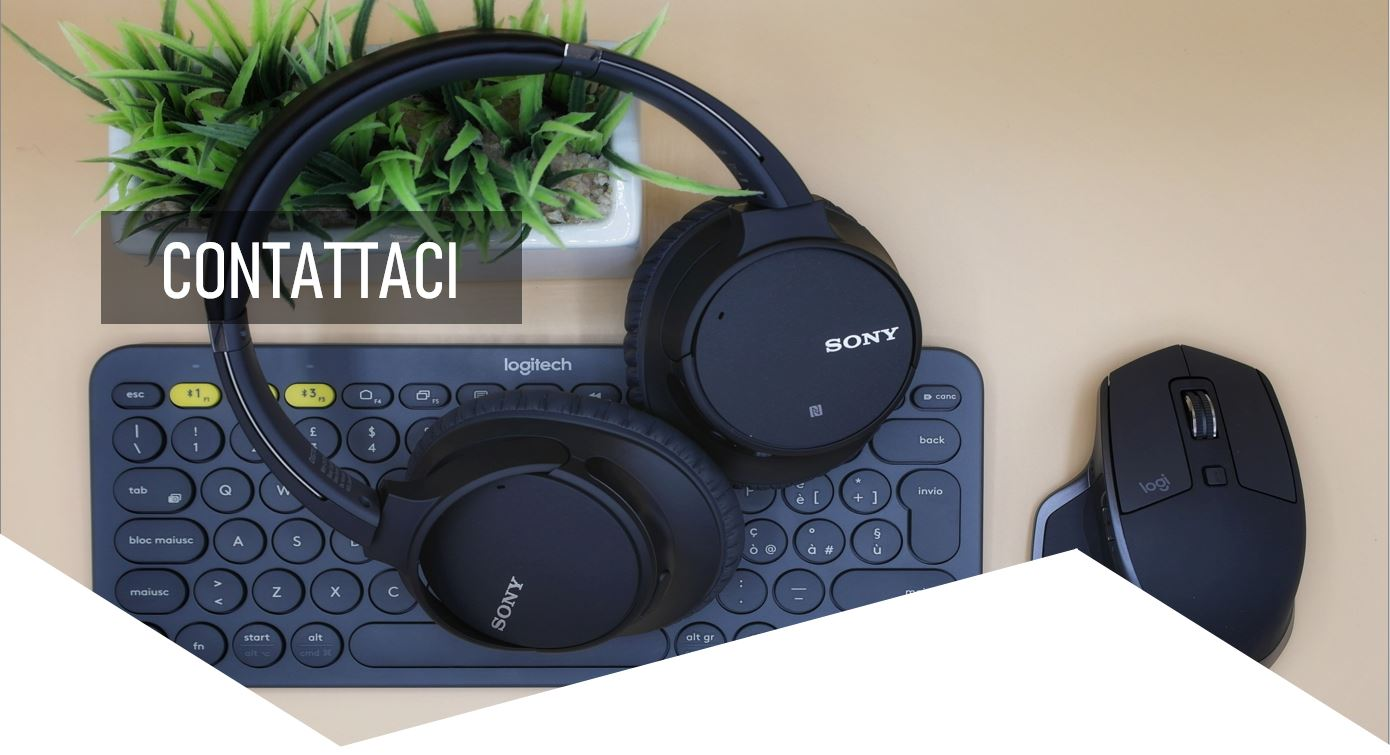
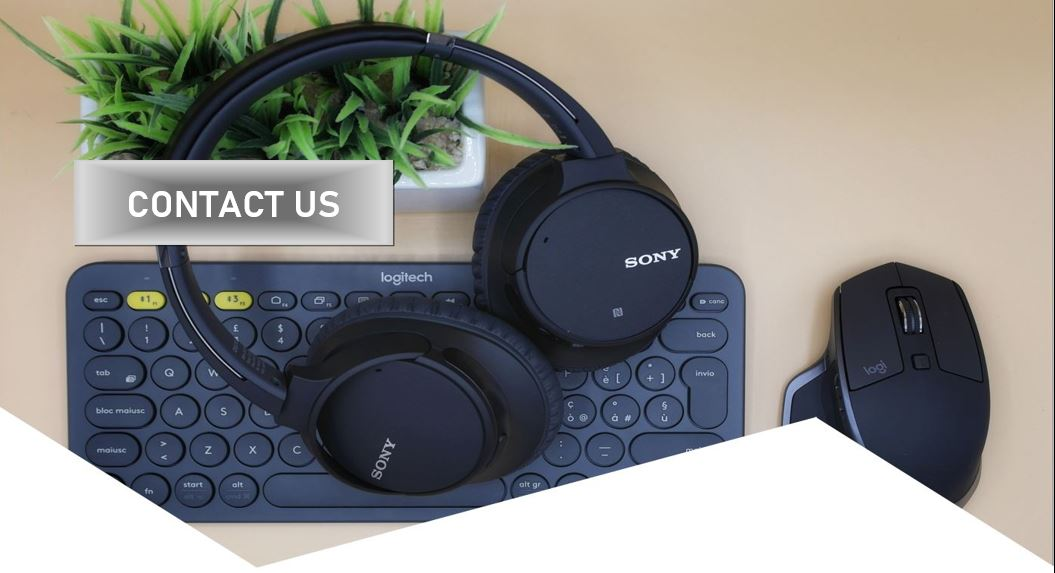
SITO UFFICIALMENTE FINITO

diff --git a/index.html b/index.html
@@ -11,18 +11,18 @@
     <body>
         <navbar id="navbar">
             <span id="navbar-title"><a href="index.html">Data EntryZ</a></span>
-            <a class="navbar-button" href="ComeFunziona.html">COME FUNZIONA</a>
-            <a class="navbar-button" href="lavora-con-noi.html">LAVORA CON NOI</a>
-            <a class="navbar-button" href="contattaci.html">CONTATTACI</a>
+            <a class="navbar-button" href="ComeFunziona.html">HOW DOES IT WORK?</a>
+            <a class="navbar-button" href="lavora-con-noi.html">WORK WITH US</a>
+            <a class="navbar-button" href="contattaci.html">CONTACT US</a>
         </navbar>
 
         <div class="flex-container">
             <div>
                 <p>
-                    DataEntryZ fondata nel 2022, utilizza tutti gli strumenti tecnologici necessari per offrire un servizio di inserimento dati alla massima qualità possibile.
+                    DataEntryZ founded in 2022, uses all the technological tools necessary to offer a data entry service at the highest possible quality.
                 </p>
-                <p>La nostra societa si impegna a garantire qualità, professionalità e precisione.</p>
-                <div class="container-button"><a href="javascript:void(0);">Prenota un progetto</a></div>
+                <p>Our company is committed to guaranteeing quality, professionalism and precision.</p>
+                <div><a class="container-button" href="https://forms.gle/NepX91Uy2oKfBoG5A">Book a project</a></div>
             </div>
             <img src="img/logo.png" alt="logo" id="logo">
         </div>
@@ -30,31 +30,31 @@
         <div class="flex-container bg-light-gray" id="second-section">
             <img src="img/graph.png" alt="grafico professionalita'" id="grafico" />
             <div>
-                <h3>Affida i tuoi dati a dei professionisti</h3>
+                <h3>Entrust your data to professionals</h3>
                 <p>
-                    I tuoi dati saranno tenuti al sicuro in dei server locali e l'intero lavoro sarà svolto in locale.<br />Al termine del lavoro i dati saranno definitivamente eliminati e il file verrà mantenuto per 7 giorni dal momento della consegna in caso di problemi.
+                    Your data will be kept safe on local servers and all work will be done locally.<br/>At the end of the work the data will be permanently deleted and the file will be kept for 7 days from the moment of delivery in case of problems.
                 </p>
             </div>
         </div>
 
         <div class="flex-container">
             <div>
-                <h3>Assistenza umana</h3>
+                <h3>Human assistance</h3>
                 <p>
-                    I nostri operatori saranno sempre pronti a risolvere qualsiasi dubbi o perplessità, e inoltre si impegnano a offirre un tempo di risposta tempestivo che si può estendere fino a un massimo di 24 ore a causa dell'elevato numero di richieste.
+                    Our operators will always be ready to resolve any doubts or concerns, and also undertake to offer a prompt response time that can be extended up to a maximum of 24 hours due to the high number of requests.
                 </p>
-                <div class="container-button"><a href="javascript:void(0);">Contatta l'assistenza</a></div>
+                <div><a class="container-button" href="contattaci.html">Contact support</a></div>
             </div>
             <img src="img/customer_care.jpg" alt="assistena clienti" id="customer-care" />
         </div>
 
-        <footer class="flex-container bg-dark-gray" id="footer">
+        <footer class="flex-box-secondpag bg-dark-gray" id="footer">
             <div>
                 <span>Copyright © 2022 DataEntryZ</span>
                 <div>
-                    <a href="javascript:void(0);"><img src="img/email.svg" alt="email" class="social-svg" /></a>
-                    <a href="javascript:void(0);"><img src="img/instagram.svg" alt="instagram" class="social-svg" /></a>
-                    <a href="javascript:void(0);"><img src="img/facebook.svg" alt="facebook" class="social-svg" /></a>
+                    <a href="mailto:Dataentryz@pm.me"><img src="img/email.svg" alt="email" class="social-svg" /></a>
+                    <a href="https://instagram.com/dataentryz?igshid=YmMyMTA2M2Y="><img src="img/instagram.svg" alt="instagram" class="social-svg" /></a>
+                    <a href="https://instagram.com/dataentryz?igshid=YmMyMTA2M2Y="><img src="img/facebook.svg" alt="facebook" class="social-svg" /></a>
                 </div>
             </div>
         </footer>

diff --git a/ComeFunziona.html b/ComeFunziona.html
@@ -10,31 +10,31 @@
     <body>
         <navbar id="navbar">
             <span id="navbar-title"><a href="index.html">Data EntryZ</a></span>
-            <a class="navbar-button" href="ComeFunziona.html">COME FUNZIONA</a>
-            <a class="navbar-button" href="lavora-con-noi.html">LAVORA CON NOI</a>
-            <a class="navbar-button" href="contattaci.html">CONTATTACI</a>
+            <a class="navbar-button" href="ComeFunziona.html">HOW DOES IT WORK?</a>
+            <a class="navbar-button" href="lavora-con-noi.html">WORK WITH US</a>
+            <a class="navbar-button" href="contattaci.html">CONTACT US</a>
         </navbar>
         <div class="flex-box-secondpag">
-            <div><h3>UNA SOLUZIONE INNOVATIVA</h3>
+            <div><h3>AN INNOVATIVE SOLUTION</h3>
                 <p>
-                    DataEntryZ fornisce una soluzione unica e innovativa, il cliente attraverso la compilazione di un form descrive il proprio progetto e le sue esigenze, il nostro team risponderà entro 24 ore dall'invio del form con un email che confermerà la presa in carico del lavoro
+                    DataEntryZ provides a unique and innovative solution, the customer by filling in a form describes his project and his needs, our team will respond within 24 hours of sending the form with an email that will confirm the taking charge of the work
                 </p>
             </div>
             </div>
         <div class="flex-box-secondpag" id="RigaIntermedia">
-            <div><h3>PERSONALIZZAZIONE ILLIMITATA</h3>
+            <div><h3>UNLIMITED CUSTOMIZATION</h3>
                 <p>
-                    DataEntryZ fornisce una soluzione unica e innovativa, il cliente attraverso la compilazione di un form descrive il proprio progetto e le sue esigenze, il nostro team risponderà entro 24 ore dall'invio del form con un email che confermerà la presa in carico del lavoro
+                    With DataentryZ you can explain your needs in the form and make all the requests you want, in the confirmation email you will also receive the answer to any requests ;)
                 </p>
             </div>
             </div>
         <div class="flex-box-secondpag" id="RigaFinale">
-            <div><h3>TEMPI FLESSIBILI</h3>
+            <div><h3>FLEXIBLE TIMES AND DELIVERY</h3>
                 <p>
-                    DataEntryZ fornisce una soluzione unica e innovativa, il cliente attraverso la compilazione di un form descrive il proprio progetto e le sue esigenze, il nostro team risponderà entro 24 ore dall'invio del form con un email che confermerà la presa in carico del lavoro
+                    When filling out the form you will need to specify a delivery date, our team will do everything possible to deliver the work on that date. To protect the work within our company we ask for the payment of 1-10% after the confirmation email (the exact amount will be specified in the confirmation email) of the fee according to the project. <br> the delivery of the work will take place via a password-protected cloud that will be provided to the customer at the time of final payment.
                 </p>
                 <p>
-                    <button>Compila il form</button>
+                    <a class="container-button" href="https://forms.gle/NepX91Uy2oKfBoG5A">Fill out the form</a>
                 </p>
                     </div>
             </div>
@@ -46,9 +46,9 @@
                 <div>
                     <span>Copyright © 2022 DataEntryZ</span>
                     <div>
-                        <a href="javascript:void(0);"><img src="img/email.svg" alt="email" class="social-svg" /></a>
-                        <a href="javascript:void(0);"><img src="img/instagram.svg" alt="instagram" class="social-svg" /></a>
-                        <a href="javascript:void(0);"><img src="img/facebook.svg" alt="facebook" class="social-svg" /></a>
+                        <a href="mailto:Dataentryz@pm.me"><img src="img/email.svg" alt="email" class="social-svg" /></a>
+                        <a href="https://instagram.com/dataentryz?igshid=YmMyMTA2M2Y="><img src="img/instagram.svg" alt="instagram" class="social-svg" /></a>
+                        <a href="https://instagram.com/dataentryz?igshid=YmMyMTA2M2Y="><img src="img/facebook.svg" alt="facebook" class="social-svg" /></a>
                     </div>
                 </div>
             </footer>

diff --git a/contattaci.html b/contattaci.html
@@ -9,28 +9,28 @@
     <body>
         <navbar id="navbar">
             <span id="navbar-title"><a href="index.html">Data EntryZ</a></span>
-            <a class="navbar-button" href="ComeFunziona.html">COME FUNZIONA</a>
-            <a class="navbar-button" href="lavora-con-noi.html">LAVORA CON NOI</a>
-            <a class="navbar-button" href="contattaci.html">CONTATTACI</a>
+            <a class="navbar-button" href="ComeFunziona.html">HOW DOES IT WORK?</a>
+            <a class="navbar-button" href="lavora-con-noi.html">WORK WITH US</a>
+            <a class="navbar-button" href="contattaci.html">CONTACT US</a>
         </navbar>
         <div><img src="img/Contattaci.jpg" id="sfondo"></div>
         </div>
         <div class="flex-box-secondpag">
             <div>
-                <h3>Richiedi una consulenza per la tua azienda</h3>
+                <h3>Request a consultation for your company</h3>
                     <p class="paragrafo">
-                        Vuoi ricevere una consulenza personalizzata gratuita per la tua azienda o scoprire i servizi e le soluzioni di DataEntryZ?<br> Mettiti in contatto con noi.
+                        Do you want to receive free personalized advice for your company or discover DataEntryZ services and solutions?<br> Get in touch with us.
                     </p>
-                    <div class="navbar-button"><a href="javascript:void(0);">Richiedi una consulenza</a></div>
+            <div><a class="navbar-button" href="mailto:Dataentryz@pm.me">Request a consultation</a></div>
             </div>
         </div>
         <div class="flex-box-secondpag">
         <div>
-             <h3>Contatta la nostra assistenza</h3>
+             <h3>Contact our support</h3>
             <p class="paragrafo">
-            Non hai trovato quello che cercavi?<br> Mettiti in contatto con uno dei nostri operatori. Il tempo di risposta può variare fino a un massimo di 24 ore in base alle richieste. <br> Scrivi all'indirizzo email: prova@gmail.com o tramite  chat telegram.
+                You did not find what you were looking for?<br>Get in touch with one of our operators. Response time may vary up to a maximum of 24 hours based on requests. <br> Write to the email address: Dataentryz@pm.me or by telegram chat.
              </p>
-        <div class="navbar-button"><a href="javascript:void(0);">Chat Telegram</a></div>
+        <div><a class="navbar-button" href="https://t.me/S4N7010">Chat Telegram</a></div>
         </div>
         </div>
         <div class="flex-box-secondpag" id="ImgCentrata">
@@ -41,9 +41,9 @@
             <div>
                 <span>Copyright © 2022 DataEntryZ</span>
                 <div>
-                    <a href="javascript:void(0);"><img src="img/email.svg" alt="email" class="social-svg" /></a>
-                    <a href="javascript:void(0);"><img src="img/instagram.svg" alt="instagram" class="social-svg" /></a>
-                    <a href="javascript:void(0);"><img src="img/facebook.svg" alt="facebook" class="social-svg" /></a>
+                    <a href="mailto:Dataentryz@pm.me"><img src="img/email.svg" alt="email" class="social-svg" /></a>
+                    <a href="https://instagram.com/dataentryz?igshid=YmMyMTA2M2Y="><img src="img/instagram.svg" alt="instagram" class="social-svg" /></a>
+                    <a href="https://instagram.com/dataentryz?igshid=YmMyMTA2M2Y="><img src="img/facebook.svg" alt="facebook" class="social-svg" /></a>
                 </div>
             </div>
         </footer>

diff --git a/lavora-con-noi.html b/lavora-con-noi.html
@@ -9,9 +9,9 @@
     <body>
         <navbar id="navbar">
             <span id="navbar-title"><a href="index.html">Data EntryZ</a></span>
-            <a class="navbar-button" href="ComeFunziona.html">COME FUNZIONA</a>
-            <a class="navbar-button" href="lavora-con-noi.html">LAVORA CON NOI</a>
-            <a class="navbar-button" href="contattaci.html">CONTATTACI</a>
+            <a class="navbar-button" href="ComeFunziona.html">HOW DOES IT WORK?</a>
+            <a class="navbar-button" href="lavora-con-noi.html">WORK WITH US</a>
+            <a class="navbar-button" href="contattaci.html">CONTACT US</a>
         </navbar>
         <div><img src="img/sfondoLavoraConNoi.jpg" id="sfondo"></div>
         </div>
@@ -45,9 +45,8 @@
                 <div>
                     <h3>What are you waiting for?</h3>
                         <p class="paragrafo">
-                            Click on the button and send your CV <br> Our team will analyze your CV and will contact you by email if your profile is in line with our needs. Next, we provide services, training courses and everything you need to develop your skills to operate in the workspace
+                            Send your CV to Dataentryz@pm.me <br> Our team will analyze your CV and will contact you by email if your profile is in line with our needs. Next, we provide services, training courses and everything you need to develop your skills to operate in the workspace
                         </p>
-                        <div class="navbar-button"><a href="javascript:void(0);">Send your CV</a></div>
                 </div>
             </div>
         </div>
@@ -59,9 +58,9 @@
                 <div>
                     <span>Copyright © 2022 DataEntryZ</span>
                     <div>
-                        <a href="javascript:void(0);"><img src="img/email.svg" alt="email" class="social-svg" /></a>
-                        <a href="javascript:void(0);"><img src="img/instagram.svg" alt="instagram" class="social-svg" /></a>
-                        <a href="javascript:void(0);"><img src="img/facebook.svg" alt="facebook" class="social-svg" /></a>
+                        <a href="mailto:Dataentryz@pm.me"><img src="img/email.svg" alt="email" class="social-svg" /></a>
+                        <a href="https://instagram.com/dataentryz?igshid=YmMyMTA2M2Y="><img src="img/instagram.svg" alt="instagram" class="social-svg" /></a>
+                        <a href="https://instagram.com/dataentryz?igshid=YmMyMTA2M2Y="><img src="img/facebook.svg" alt="facebook" class="social-svg" /></a>
                     </div>
                 </div>
             </footer>
